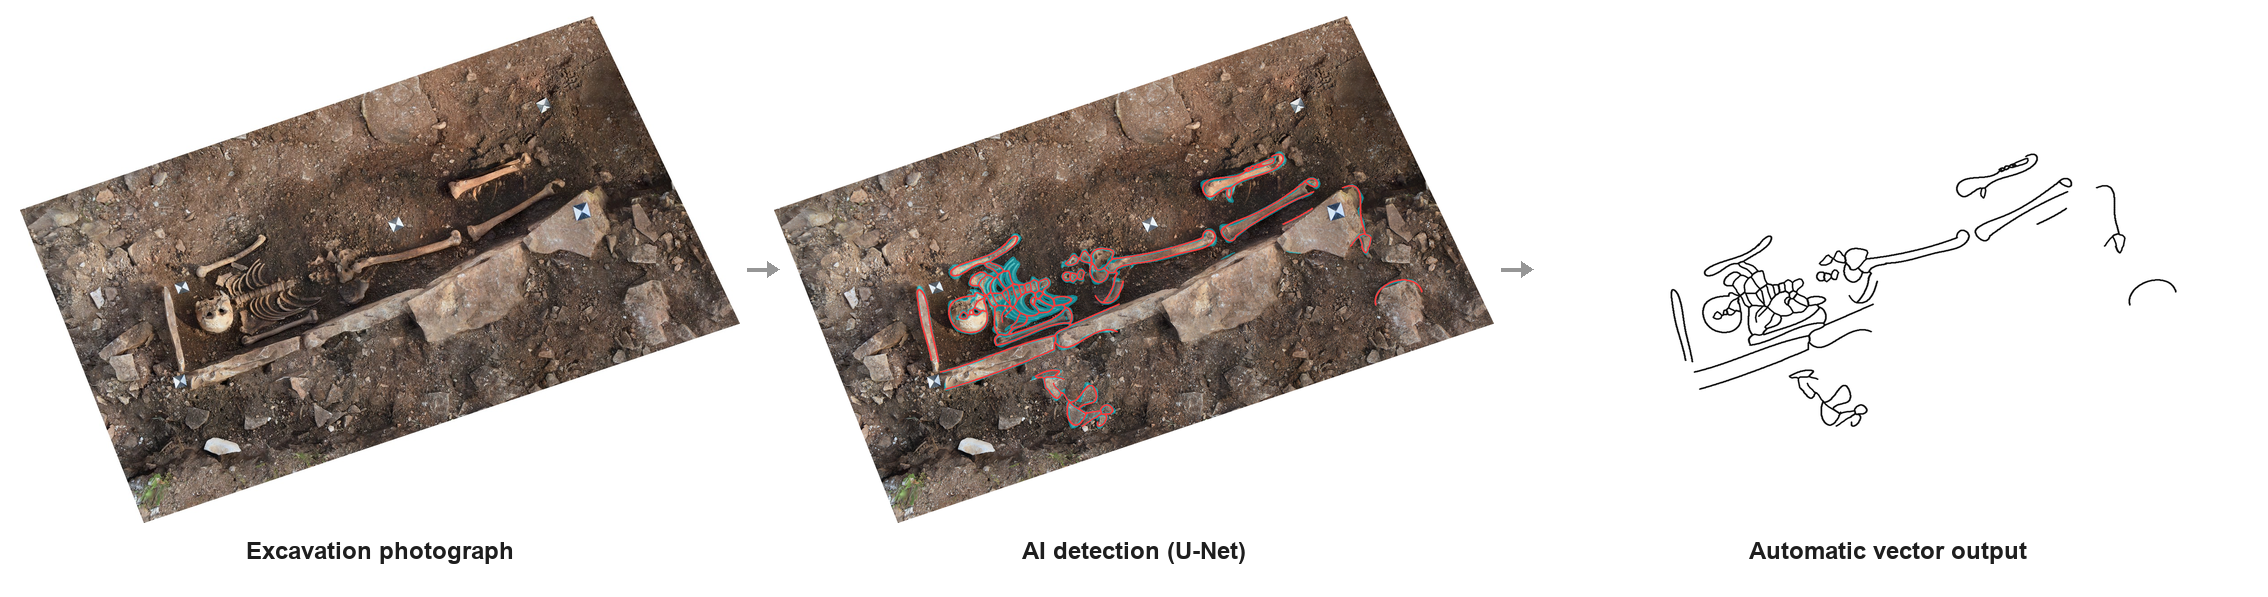
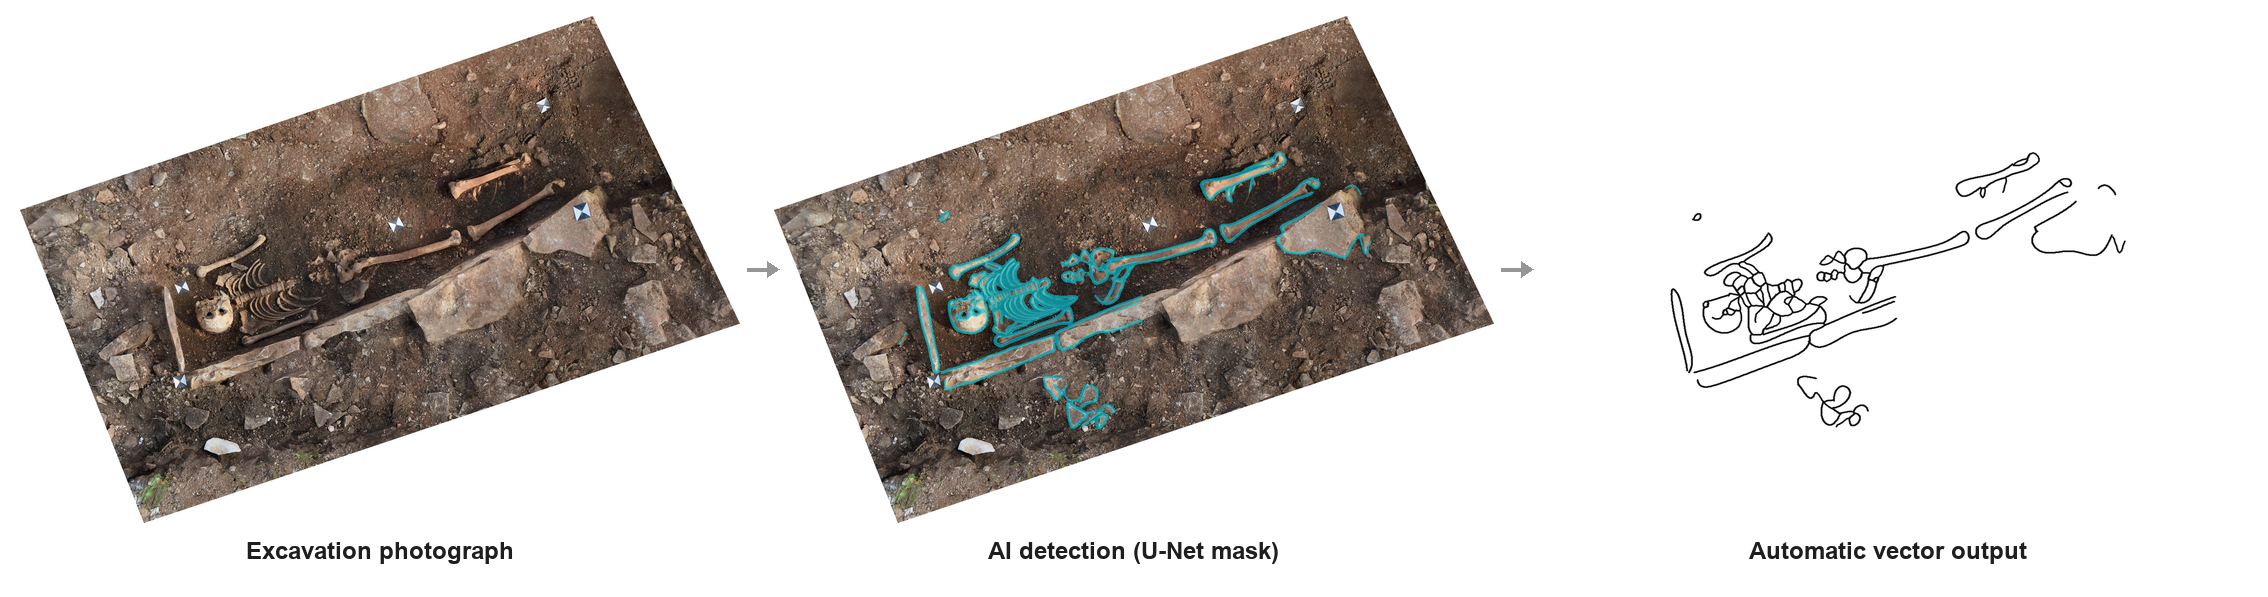
Clean README paths, simplify demo visuals, drop unfinished roadmap item
- Remove machine-specific paths from README (install + weights sections)
- Cleaner demo: photo -> U-Net mask -> vector (drop busy dual-colour overlay)
- Example figure now shows centerlines only
- Remove not-yet-built Stratum-AIM item from roadmap and feature list

diff --git a/README.md b/README.md
@@ -38,7 +38,7 @@ automatic vector line drawing, ready for CAD/GIS. Unretouched output.*
 - **Georeferencing preserved** end-to-end: GeoTIFF inputs keep their CRS in the
   mask raster and GeoJSON outputs.
 - Rotating **file logging**, graceful **error handling**, and a modular
-  architecture designed to grow (DXF, YOLO, SAM2, Stratum-AIM, 3D).
+  architecture designed to grow (DXF, YOLO, SAM2, 3D).
 
 ---
 
@@ -54,7 +54,7 @@ automatic vector line drawing, ready for CAD/GIS. Unretouched output.*
 ### 2. Create a virtual environment
 
 ```powershell
-cd C:\Users\mirza\BoneSegStudio
+cd BoneSegStudio
 python -m venv .venv
 .\.venv\Scripts\Activate.ps1
 python -m pip install --upgrade pip
@@ -197,8 +197,10 @@ applied to the full-resolution mask as a sparse diff.
 
 - **Model:** UNet + EfficientNet-B3, 1 output class, 13.16 M parameters
   (`model367b3`, trained on UNET_DATASET_FINAL4, 367 pairs).
-- **Weights:** `C:\Users\mirza\Desktop\modeli\model367b3\best_bone_model.pth`
-  (configurable in `boneseg/config.py`).
+- **Weights:** not included in this repository (large binary + tied to
+  unpublished training data). Point the app at a local checkpoint via the
+  `BONESEG_MODEL_PATH` environment variable, or the default
+  `models/model367b3/best_bone_model.pth` (see `boneseg/config.py`).
 - **Inference:** reflect-padded sliding window (patch 512, stride 256),
   sigmoid probabilities averaged over overlaps; optional 4-way flip TTA.
 - **Postprocessing:** threshold (default 0.5) → remove small components →
@@ -245,10 +247,10 @@ degrades to CPU rather than crashing.
 
 ## Example output
 
-![Detected bones overlaid on the photograph](docs/example_overlay.png)
+![Extracted bone centerlines drawn over the photograph](docs/example_overlay.png)
 
-The U-Net mask (cyan) and the extracted centerlines (red) drawn back over the
-input photograph. The same geometry is what gets written to GeoJSON / DXF / SVG.
+The extracted centerlines (red) drawn back over the input photograph — this is
+the vector geometry that gets written to GeoJSON / DXF / SVG.
 
 ---
 
@@ -277,8 +279,6 @@ The architecture was designed so these slot in with minimal refactoring:
   `boneseg/models/registry.py`; the UI dropdown updates automatically.
 - **YOLO / SAM2** — new model *families* register their own builder function;
   the pipeline stays model-agnostic.
-- **Stratum-AIM integration** — the headless pipeline can be driven directly to
-  feed vectors into the Site Continuum / IFS layers.
 - **3D visualization** and **automatic archaeological reporting** — consume the
   same `PipelineResult` objects.
 
